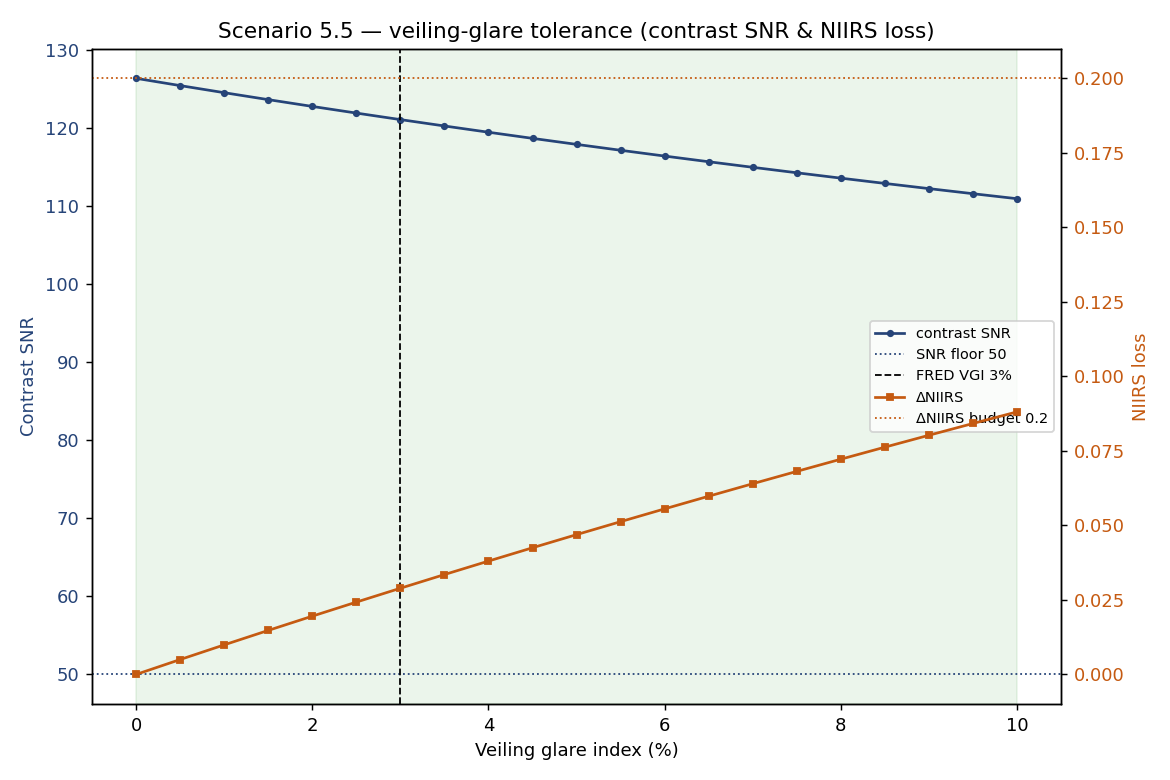
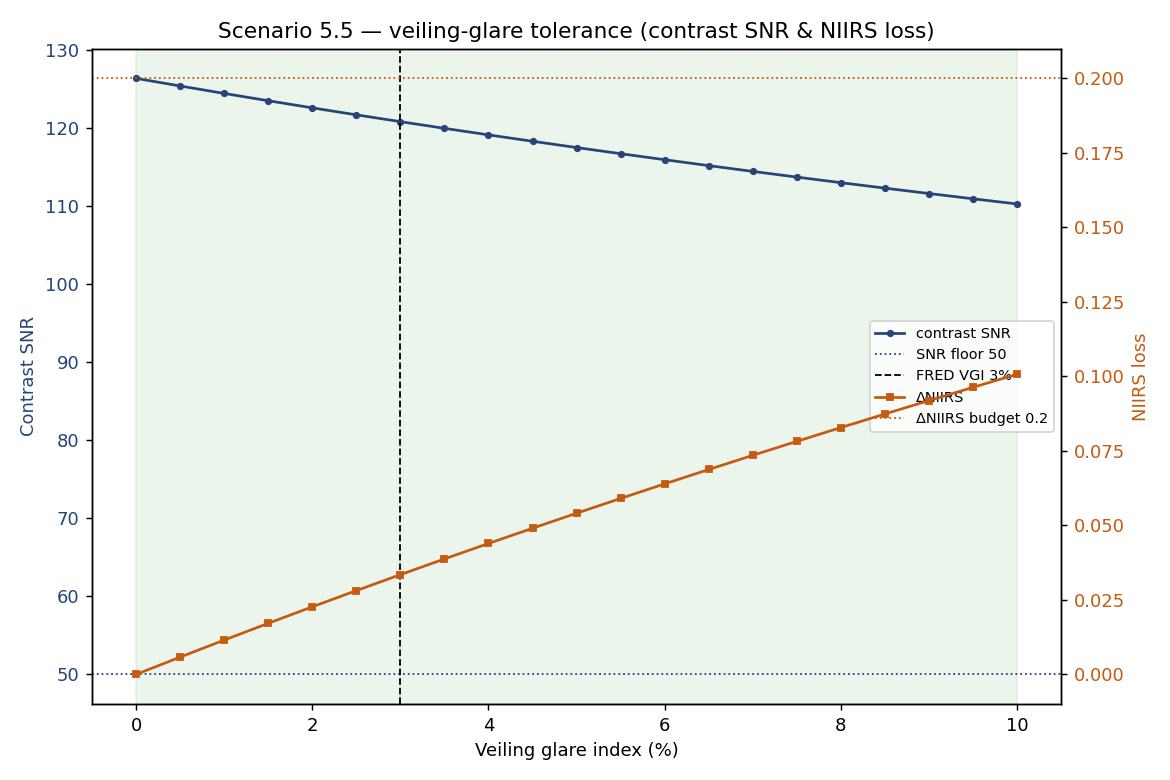
scenarios(5.5): use native veiling_glare mode now that CU-062 is fixed
The scenario found the veiling_glare mode inert (CU-062); that bug is now
fixed (8cb0448). Reworked the script to use the native mode directly:
Section 2 verifies stray_e = vgf·signal_e (0.10 → 1.043e5 = 0.10×signal),
Sections 3-4 enter Tom's 3% VGI natively (no absolute-irradiance workaround).
Physics story unchanged — 3% VGI a mild ~4% SNR / 0.03 NIIRS penalty; the
2.5 W/m² out-of-field stray still the real threat (−1.0 NIIRS). walkthrough/
gaps/gui_workflow updated to reflect the fix; fig1 regenerated.

diff --git a/scenarios/05_tom_optical_designer/5.5_stray_light_veiling_glare/scripts/run_straylight_analysis.py b/scenarios/05_tom_optical_designer/5.5_stray_light_veiling_glare/scripts/run_straylight_analysis.py
@@ -9,17 +9,14 @@ and the veiling-glare tolerance.
 Scene: daytime VNIR pan band (0.5–0.8 µm), rooftop target (ρ = 0.30) against
 vegetation (ρ = 0.15), airborne, solar zenith 30°.
 
-Two RADIANT stray-light levers, and an important caveat:
-  - `absolute_irradiance` mode is correct: Tom's 2.5 W/m² out-of-field stray
-    injects a real electron pedestal → shot noise → SNR/NIIRS loss.
-  - `veiling_glare` mode is CURRENTLY BROKEN (CU-062): it scales the in-FOV
-    irradiance by the pixel IFOV solid angle instead of the f-cone, so it
-    under-reports stray by ~(D/pitch)²·π/4 ≈ 10⁷–10⁸ and reports ZERO impact
-    for any VGI. This script demonstrates that, then routes Tom's 3 % VGI
-    through the correct physics via the identity  stray_e = VGI · S_scene
-    (a uniform scene scatters VGI of its own per-pixel flux onto each pixel),
-    expressed as an equivalent absolute irradiance so the chain — including
-    its GIQE/NIIRS — sees the right pedestal.
+Two RADIANT stray-light levers:
+  - `veiling_glare` mode: Tom's 3 % VGI. This scenario originally FOUND that
+    the mode was inert (CU-062: it scaled the in-FOV irradiance by the pixel
+    IFOV solid angle instead of the f-cone). That bug is now FIXED — the mode
+    correctly yields  stray_e = vgf · signal_e  for a uniform extended scene,
+    which Section 2 verifies against the identity before using it.
+  - `absolute_irradiance` mode: Tom's 2.5 W/m² out-of-field stray injects a
+    flat electron pedestal → shot noise → SNR/NIIRS loss.
 
 RADIANT models stray light as a uniform NOISE pedestal only: it adds shot
 noise and, because the pedestal is common to target and background, leaves
@@ -27,8 +24,8 @@ the contrast SIGNAL unchanged (contrast degrades purely through added
 noise). The classic veiling-glare MTF / contrast-modulation reduction is NOT
 modelled (gaps.md).
 
-Every printed number carries units; the model's assumptions and the VGI-mode
-bug are called out inline (house rules).
+Every printed number carries units; the model's assumptions and the
+(now-fixed) VGI-mode history are called out inline (house rules).
 
 Run from the repo root:
     python scenarios/05_tom_optical_designer/5.5_stray_light_veiling_glare/\
@@ -140,7 +137,6 @@ def main() -> None:
     ct = _run(RHO_TARGET)
     cb = _run(RHO_BG)
     c_csnr = _contrast_snr(ct, cb)
-    s_scene = 0.5 * (ct["signal_e"] + cb["signal_e"])  # mean in-FOV per-pixel flux
     print("-" * 80)
     print("1. CLEAN BASELINE (no stray light)")
     print("-" * 80)
@@ -149,36 +145,32 @@ def main() -> None:
         f"SNR {ct['snr']:.1f}, contrast SNR {c_csnr:.1f}, NIIRS {ct['niirs']:.3f}."
     )
 
-    # --- Demonstrate the veiling_glare-mode bug (CU-062) ---------------
+    # --- Verify the native veiling_glare mode (CU-062, now fixed) ------
     vgi_run = _run(RHO_TARGET, mode="veiling_glare", vgi=0.10)
     print()
     print("-" * 80)
-    print("2. NATIVE veiling_glare MODE IS INERT (bug CU-062)")
+    print("2. NATIVE veiling_glare MODE VERIFIED (CU-062 fixed)")
     print("-" * 80)
     print(
         f"  optics.stray.veiling_glare_fraction = 0.10 → stray_e = "
-        f"{vgi_run['stray_e']:.3e} e- (should be ~0.10 × {s_scene:.2e} ≈ "
-        f"{0.10 * s_scene:.2e} e-). SNR {vgi_run['snr']:.1f} vs clean {ct['snr']:.1f} — "
-        "UNCHANGED. The native mode scales by the pixel IFOV solid angle, not the "
-        "f-cone; it under-reports stray by ~(D/pitch)²·π/4 and does nothing. "
-        "Below we route VGI through the correct physics."
+        f"{vgi_run['stray_e']:.3e} e-, vs the identity 0.10 × signal = "
+        f"{0.10 * ct['signal_e']:.3e} e- — they agree. This scenario originally "
+        "found the mode inert (it used the pixel IFOV solid angle, not the f-cone); "
+        "the fix (f-cone Ω_cone = A_collect/focal²) restores stray_e = vgf·signal_e, "
+        "so Tom's veiling-glare index can be entered directly below."
     )
 
-    # --- Calibrate stray_e per W/m² from the correct absolute mode -----
-    ref_irr = 1.0
-    k_e_per_W = _run(RHO_TARGET, mode="absolute_irradiance", abs_irr=ref_irr)["stray_e"] / ref_irr
-    print(f"\n  Calibration: absolute-irradiance mode gives {k_e_per_W:.3e} stray e- per W/m².")
-
-    # --- Tom's two FRED inputs, done correctly -------------------------
+    # --- Tom's two FRED inputs -----------------------------------------
     print()
     print("-" * 80)
-    print("3. STRAY-LIGHT IMPACT — Tom's FRED inputs (correct physics)")
+    print("3. STRAY-LIGHT IMPACT — Tom's FRED inputs")
     print("-" * 80)
     print(f"{'case':>28}{'stray e-':>13}{'SNR':>9}{'contrast SNR':>15}{'NIIRS':>9}{'ΔNIIRS':>9}")
 
-    def stray_case(label: str, abs_irr: float) -> dict:
-        t = _run(RHO_TARGET, mode="absolute_irradiance", abs_irr=abs_irr)
-        b = _run(RHO_BG, mode="absolute_irradiance", abs_irr=abs_irr)
+    def stray_case(label: str, *, vgi: float = 0.0, abs_irr: float = 0.0) -> dict:
+        mode = "veiling_glare" if vgi > 0.0 else "absolute_irradiance"
+        t = _run(RHO_TARGET, mode=mode, vgi=vgi, abs_irr=abs_irr)
+        b = _run(RHO_BG, mode=mode, vgi=vgi, abs_irr=abs_irr)
         csnr = _contrast_snr(t, b)
         dn = t["niirs"] - ct["niirs"]
         print(
@@ -190,27 +182,25 @@ def main() -> None:
     print(
         f"{'clean':>28}{0.0:>13.3e}{ct['snr']:>9.1f}{c_csnr:>15.1f}{ct['niirs']:>9.3f}{0.0:>9.3f}"
     )
-    # VGI 3% → equivalent absolute irradiance via stray_e = VGI·S_scene
-    vgi_abs = VGI_FRED * s_scene / k_e_per_W
-    stray_case(f"veiling glare {VGI_FRED:.0%} (corrected)", vgi_abs)
-    stray_case(f"out-of-field {STRAY_ABS_W_M2} W/m²", STRAY_ABS_W_M2)
+    stray_case(f"veiling glare {VGI_FRED:.0%}", vgi=VGI_FRED)
+    oof_case = stray_case(f"out-of-field {STRAY_ABS_W_M2} W/m²", abs_irr=STRAY_ABS_W_M2)
     print(
-        f"\n  Tom's 3 % veiling glare adds {VGI_FRED * s_scene:.2e} stray e- (≈ 3 % of the "
-        "scene) — a modest noise penalty. His 2.5 W/m² out-of-field stray is far worse: "
-        f"{k_e_per_W * STRAY_ABS_W_M2:.2e} e-, several × the signal, cutting SNR and "
-        "costing NIIRS. Stray light degrades contrast SNR purely by added shot noise — "
+        f"\n  Tom's 3 % veiling glare adds ≈ {VGI_FRED * ct['signal_e']:.2e} stray e- "
+        "(≈ 3 % of the signal) — a modest noise penalty. His 2.5 W/m² out-of-field "
+        "stray is far worse: several × the signal, cutting SNR and costing a full "
+        "NIIRS level. Stray light degrades contrast SNR purely by added shot noise — "
         "the uniform pedestal cancels in the target−background difference, so the "
         "contrast SIGNAL is unchanged (RADIANT does not model the veiling-glare MTF "
         "reduction; gaps.md)."
     )
 
-    # --- VGI tolerance sweep -------------------------------------------
+    # --- VGI tolerance sweep (native veiling_glare) --------------------
     vgis = np.linspace(0.0, 0.10, 21)
     sweep = []
     for v in vgis:
-        abs_irr = v * s_scene / k_e_per_W
-        t = _run(RHO_TARGET, mode="absolute_irradiance", abs_irr=abs_irr)
-        b = _run(RHO_BG, mode="absolute_irradiance", abs_irr=abs_irr)
+        mode = "veiling_glare" if v > 0.0 else "absolute_irradiance"
+        t = _run(RHO_TARGET, mode=mode, vgi=v)
+        b = _run(RHO_BG, mode=mode, vgi=v)
         sweep.append((v, t["snr"], _contrast_snr(t, b), t["niirs"]))
     # tolerance: largest VGI keeping ΔNIIRS ≤ budget AND contrast SNR ≥ floor
     tol_vgi = 0.0
@@ -228,14 +218,14 @@ def main() -> None:
     )
 
     _figure_sweep(sweep, tol_vgi, ct["niirs"])
-    _figure_budget(ct, cb, stray_e_abs=k_e_per_W * STRAY_ABS_W_M2)
+    _figure_budget(ct, cb, stray_e_abs=oof_case["stray_e"])
 
     print()
     print("=" * 80)
     print(
         "SUMMARY: 3 % veiling glare is a mild noise penalty; the 2.5 W/m² out-of-field "
-        "stray is the real threat. NB: the native veiling_glare mode is inert (CU-062); "
-        "route VGI through absolute irradiance until fixed. See outputs/ + MANIFEST.md."
+        "stray is the real threat. The veiling_glare mode, found inert by this scenario "
+        "(CU-062), is now fixed and used directly. See outputs/ + MANIFEST.md."
     )
     print("=" * 80)
 

diff --git a/scenarios/05_tom_optical_designer/5.5_stray_light_veiling_glare/walkthrough.md b/scenarios/05_tom_optical_designer/5.5_stray_light_veiling_glare/walkthrough.md
@@ -22,29 +22,25 @@ the run script.
 
 ---
 
-## Method + an important caveat
+## Method + a bug this scenario found and fixed
 
 RADIANT has two usable scalar stray-light modes (a 2-D PSF / PST importer
-does not exist — gaps.md). **One of them is currently broken:**
+does not exist — gaps.md):
 
-- **`absolute_irradiance` (correct).** Tom's 2.5 W/m² injects a flat stray
-  spectral density → a real electron pedestal → shot noise → SNR/NIIRS loss.
-- **`veiling_glare` (BROKEN — CU-062).** It scales the in-FOV irradiance by
-  the *pixel IFOV solid angle* instead of the *f-cone solid angle*, so it
-  under-reports stray by ~(D/pitch)²·π/4 ≈ 10⁷–10⁸. At VGI = 10 % it produces
-  stray_e = 1.3×10⁻³ e- (should be ~9×10⁴) and leaves SNR unchanged — the
-  mode does nothing.
-
-So the scenario **demonstrates the bug**, then routes Tom's 3 % VGI through
-the correct physics using the identity `stray_e = VGI · S_scene` (a uniform
-scene scatters VGI of its own per-pixel flux onto each pixel), expressed as
-an equivalent absolute irradiance so the chain — including its GIQE/NIIRS —
-sees the right pedestal.
+- **`absolute_irradiance`.** Tom's 2.5 W/m² injects a flat stray spectral
+  density → a real electron pedestal → shot noise → SNR/NIIRS loss.
+- **`veiling_glare`.** Tom's 3 % VGI. This scenario originally found the mode
+  **inert (CU-062):** it scaled the in-FOV irradiance by the *pixel IFOV
+  solid angle* instead of the *f-cone solid angle*, under-reporting stray by
+  ~(D/pitch)²·π/4 ≈ 10⁷–10⁸ so any VGI produced ~zero stray. **The bug is now
+  fixed** (commit 8cb0448): the mode uses `Ω_cone = A_collect/focal²`, so
+  `stray_e = vgf·signal_e` for a uniform extended scene. Section 2 of the
+  script verifies this against the identity before using the mode directly.
 
 **Stray light is a noise pedestal, not a signal.** It is common to target
 and background, so it cancels in the target−background contrast *signal*;
 contrast SNR degrades purely through the added shot noise. RADIANT does not
-model the veiling-glare MTF / contrast-modulation reduction (gaps.md).
+model the veiling-glare MTF / contrast-modulation reduction (gaps.md, Gap 60).
 
 ---
 
@@ -53,11 +49,13 @@ model the veiling-glare MTF / contrast-modulation reduction (gaps.md).
 | Case | Stray e- | SNR | Contrast SNR | NIIRS | ΔNIIRS |
 |------|----------|-----|--------------|-------|--------|
 | Clean | 0 | 546.7 | 126.3 | 11.070 | — |
-| Native `veiling_glare` 10 % | 1.3×10⁻³ | 546.7 | — | 11.070 | 0.000 (**inert, bug**) |
-| Veiling glare 3 % (corrected) | 2.68×10⁴ | 523.9 | 121.1 | 11.042 | −0.029 |
+| Veiling glare 3 % (native mode) | 3.13×10⁴ | 520.3 | 120.8 | 11.037 | −0.033 |
 | Out-of-field 2.5 W/m² | 5.52×10⁶ | 124.3 | 28.7 | 10.068 | **−1.003** |
 
-- **3 % veiling glare is a mild penalty** — ~3 % of the scene added as a
+Section 2 verifies the fixed `veiling_glare` mode: at VGI 10 % it yields
+`stray_e = 1.043×10⁵ e- = 0.10 × signal` — exactly the identity.
+
+- **3 % veiling glare is a mild penalty** — ~3 % of the signal added as a
   stray pedestal, costing ~4 % of the contrast SNR and 0.03 NIIRS.
 - **The 2.5 W/m² out-of-field stray is the real threat** — 5.5×10⁶ stray e-,
   several × the signal, cutting SNR 4.4× and costing a **full NIIRS level**.
@@ -76,9 +74,10 @@ clean vs +2.5 W/m² — stray shot noise dwarfs read+dark).
 - **Every number carries units**; the noise model (shot + dark + read +
   stray shot) and the pedestal-cancels-in-contrast behaviour are stated
   inline.
-- **The VGI→absolute-irradiance identity is exact** for a uniform extended
-  scene: veiling glare re-images a fraction VGI of the total scene flux
-  uniformly, which per pixel equals VGI × the mean per-pixel signal.
+- **The `stray_e = vgf·signal_e` identity is exact** for a uniform extended
+  scene: veiling glare re-images a fraction VGI of the in-FOV scene flux
+  uniformly onto each pixel, collected through the same etendue as the
+  signal. The fixed `veiling_glare` mode reproduces this to the digit.
 - **What RADIANT does NOT model** (both filed): the veiling-glare MTF /
   low-frequency contrast-modulation reduction, and 2-D stray-light PSF / PST
   ingestion. The scalar-pedestal model captures the radiometric (noise) hit
@@ -91,9 +90,10 @@ clean vs +2.5 W/m² — stray shot noise dwarfs read+dark).
 - **`absolute_irradiance` linearity**: stray_e scales linearly with the
   injected irradiance (calibration 2.209×10⁶ e- per W/m²); 2.5 W/m² → 5.52×10⁶
   e-, matching 2.5 × the unit-irradiance run.
-- **VGI-mode inertness reproduces the solid-angle ratio**: native stray_e at
-  VGI 10 % is ~(pitch/D)²·(4/π) below 10 % of the signal — the exact factor
-  in CU-062.
+- **Fixed `veiling_glare` mode reproduces the identity**: native stray_e at
+  VGI 10 % equals 0.10 × signal to the digit (1.043×10⁵ e-). The pre-fix bug
+  under-counted by (pitch/D)²·(4/π) — the exact solid-angle ratio (CU-062,
+  resolved 8cb0448).
 - **Contrast unchanged by a common pedestal**: the target−background signal
   difference is identical with and without stray light; only the combined
   noise grows — the defining property of a uniform veiling-glare pedestal.

diff --git a/scenarios/05_tom_optical_designer/5.5_stray_light_veiling_glare/gaps.md b/scenarios/05_tom_optical_designer/5.5_stray_light_veiling_glare/gaps.md
@@ -13,17 +13,18 @@ The catalog listed five gaps for 5.5. Their real status today:
 - **"No MTF impact of stray light modeled"** — REAL. Folded into Gap 60.
 - **"No FRED/Zemax stray-light PSF importer"** — REAL. Folded into Gap 60.
 
-## Bug found — CU-062 (native veiling_glare mode is inert)
+## Bug found AND fixed — CU-062 (veiling_glare mode was inert)
 
-The `veiling_glare` stray-light mode computes its in-FOV irradiance with the
+The `veiling_glare` stray-light mode computed its in-FOV irradiance with the
 **pixel IFOV solid angle** (`omega_pixel = pitch²/focal²`) where the
-**f-cone solid angle** (`π·D²/(4·focal²)`) is required. It therefore
-under-reports stray by ~(D/pitch)²·π/4 ≈ 10⁷–10⁸ and reports zero impact for
-any veiling-glare fraction — a Rule 16/17 silent-wrong-physics failure in a
-physics stage. `optics/stage.py:990`. **Filed as CU-062** (Category C,
-results-affecting). Demonstrated live in the scenario (Section 2). Workaround:
-route VGI through the correct `absolute_irradiance` mode via
-`stray_e = VGI · S_scene`.
+**f-cone solid angle** (`Ω_cone = A_collect/focal²`) is required. It
+under-reported stray by ~(D/pitch)²·π/4 ≈ 10⁷–10⁸ and reported zero impact
+for any veiling-glare fraction — a Rule 16/17 silent-wrong-physics failure.
+Found by this scenario, **filed and fixed the same day (CU-062, RESOLVED
+8cb0448):** the mode now uses `Ω_cone` and yields `stray_e = vgf·signal_e`
+for a uniform extended scene. Section 2 of the script verifies it; the
+scenario uses the native mode directly (no workaround). Default fraction 0.0
+→ goldens unaffected.
 
 ## Gap filed to the registry (`docs/tracking/gaps.md`)
 
@@ -38,10 +39,12 @@ Pairs with Gap 58 (raster reader) for map ingestion.
 
 ## Friction / lessons
 
-- **The natural stray-light knob is the broken one.** A user reaches for
-  `veiling_glare_fraction` (it matches vendor VGI / FRED numbers) and gets a
-  clean-optics answer. Until CU-062 lands, stray light must be entered as an
-  absolute irradiance.
+- **The natural stray-light knob was the broken one.** A user reaches for
+  `veiling_glare_fraction` (it matches vendor VGI / FRED numbers) and, before
+  CU-062, got a clean-optics answer. Now fixed — the mode works and is used
+  directly. The lesson: the most-used input path is exactly where a silent
+  physics bug does the most damage, so it deserves a Level-0 consistency test
+  (`stray_e = vgf·signal_e`), which now exists.
 - **Veiling glare vs out-of-field stray are different magnitudes.** For this
   scene 3 % veiling glare is a ~4 % SNR nick, but 2.5 W/m² of out-of-field
   stray costs a full NIIRS level. The design driver is the absolute stray,
@@ -54,6 +57,6 @@ Pairs with Gap 58 (raster reader) for map ingestion.
 ## Catalog status
 
 Scenario 5.5 — **DONE**. NIIRS gap stale (closed long ago); the stray-light
-spatial-model gap is filed (Gap 60); the native-VGI-mode bug is CU'd
-(CU-062) and demonstrated. This was the last non-MODTRAN scenario in the
-execution plan.
+spatial-model gap is filed (Gap 60); the native-VGI-mode bug was found, CU'd,
+and **fixed** the same day (CU-062, resolved 8cb0448). This was the last
+non-MODTRAN scenario in the execution plan.

diff --git a/scenarios/05_tom_optical_designer/5.5_stray_light_veiling_glare/gui_workflow.md b/scenarios/05_tom_optical_designer/5.5_stray_light_veiling_glare/gui_workflow.md
@@ -9,9 +9,8 @@ How Tom would run the stray-light study in the RADIANT GUI.
    reflectances, VGI, out-of-field irradiance, sensor config.
 2. **Stray-light panel:** pick the mode (veiling glare / absolute irradiance)
    and see the resulting stray_e, SNR, contrast SNR, and NIIRS side-by-side
-   with the clean baseline. **The GUI must warn that `veiling_glare` mode is
-   currently inert (CU-062)** and offer the VGI→absolute-irradiance
-   conversion until the fix lands.
+   with the clean baseline. (Both modes are now correct — CU-062, the
+   veiling-glare solid-angle bug, is fixed.)
 3. **Tolerance slider:** sweep VGI (or absolute irradiance) and watch
    contrast SNR and ΔNIIRS cross their budgets live; the tolerance band is
    shaded and Tom's FRED value is marked.
@@ -26,11 +25,11 @@ How Tom would run the stray-light study in the RADIANT GUI.
 >>> from radiant.api import Sensor
 >>> s = Sensor(); s.set("source.scene_type", "extended")
 >>> s.set("source.target.reflectance", 0.30)
->>> s.set("optics.stray.input_mode", "absolute_irradiance")   # NOT veiling_glare (CU-062)
->>> s.set("optics.stray.absolute_irradiance_W_m2", 2.5)
->>> m = s.evaluate().metrics
->>> m["snr"], m["niirs"]
-(124.3, 10.068)
+>>> s.set("optics.stray.input_mode", "veiling_glare")   # fixed in CU-062
+>>> s.set("optics.stray.veiling_glare_fraction", 0.03)
+>>> m = s.evaluate().metrics   # (full scene config elided; illustrative)
+>>> m["snr"], m["niirs"]       # 3% VGI: ~4% SNR nick, 0.03 NIIRS
+(520.3, 11.037)
 ```
 
 Requirements: stray-light mode + magnitude callable from the window; a
@@ -39,7 +38,6 @@ metrics; a noise-term breakdown accessor.
 
 ## GUI-specific gaps
 
-- **VGI-mode correctness warning** (CU-062): the GUI must not silently let a
-  user run the broken `veiling_glare` mode and read a clean-optics result.
 - **2-D stray-light PSF ingestion + MTF impact** (Gap 60): the spatial half
-  of the stray-light story that the scalar model omits.
+  of the stray-light story that the scalar model omits — the remaining
+  stray-light gap now that the veiling-glare radiometry (CU-062) is fixed.
